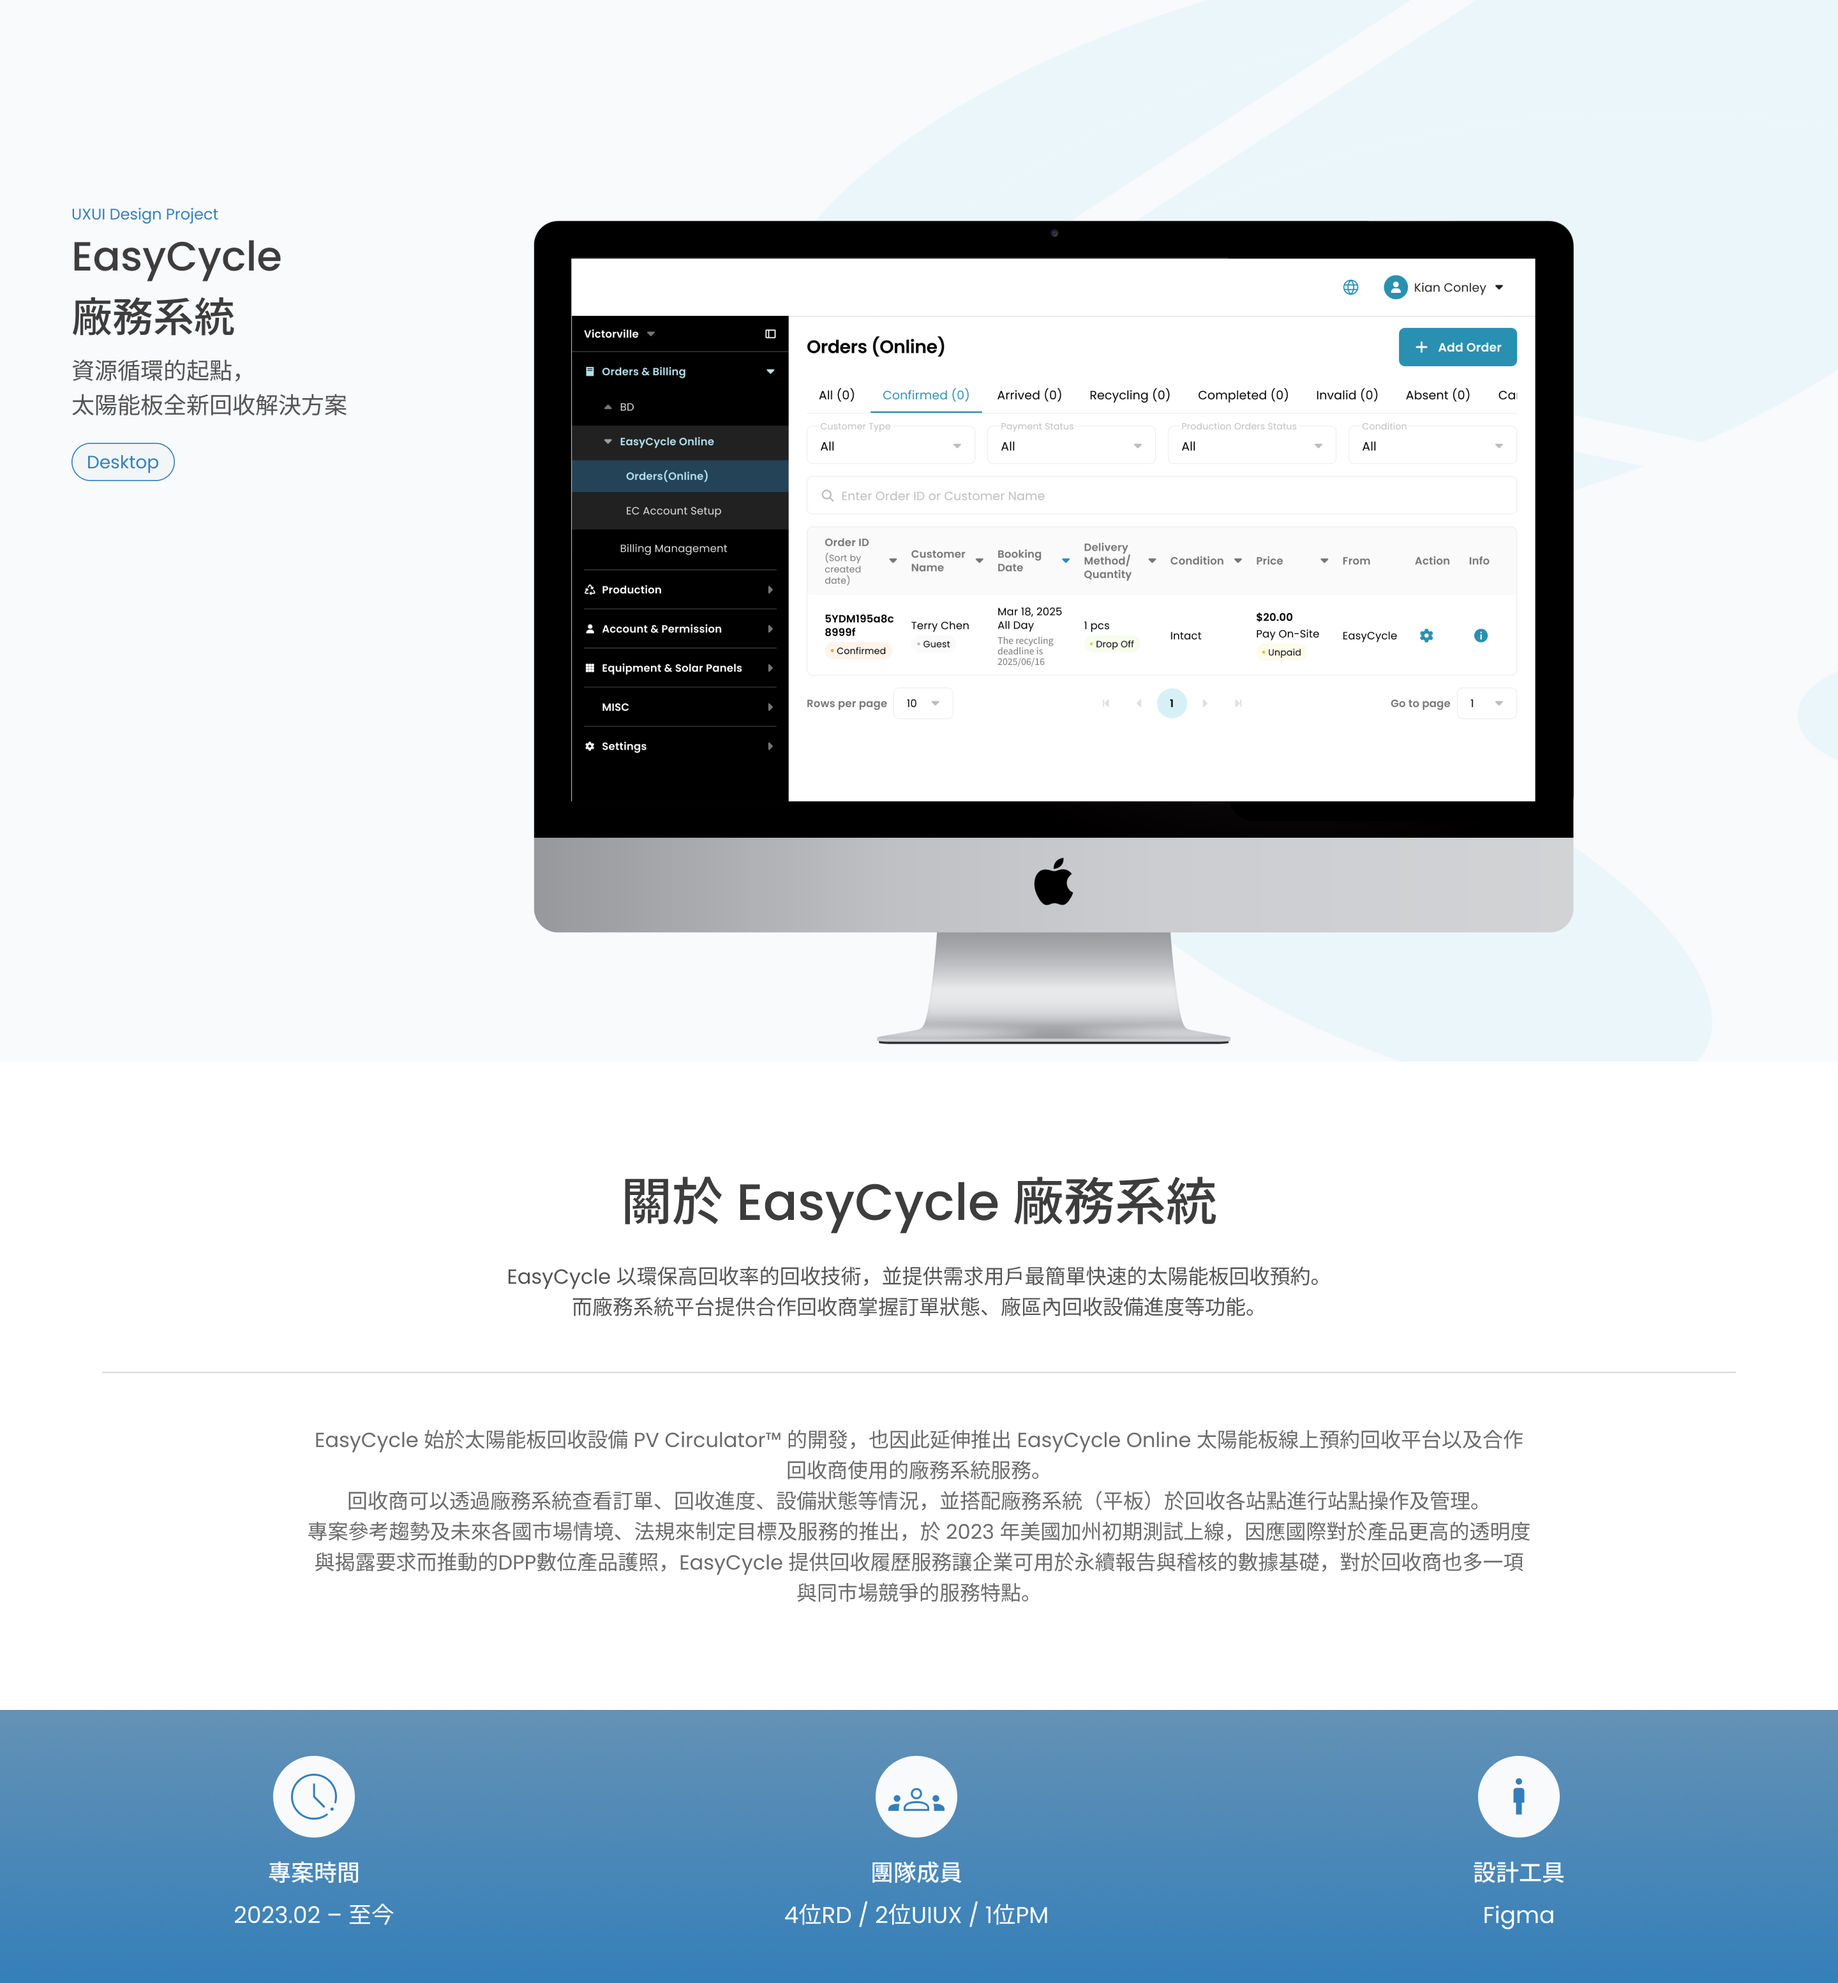
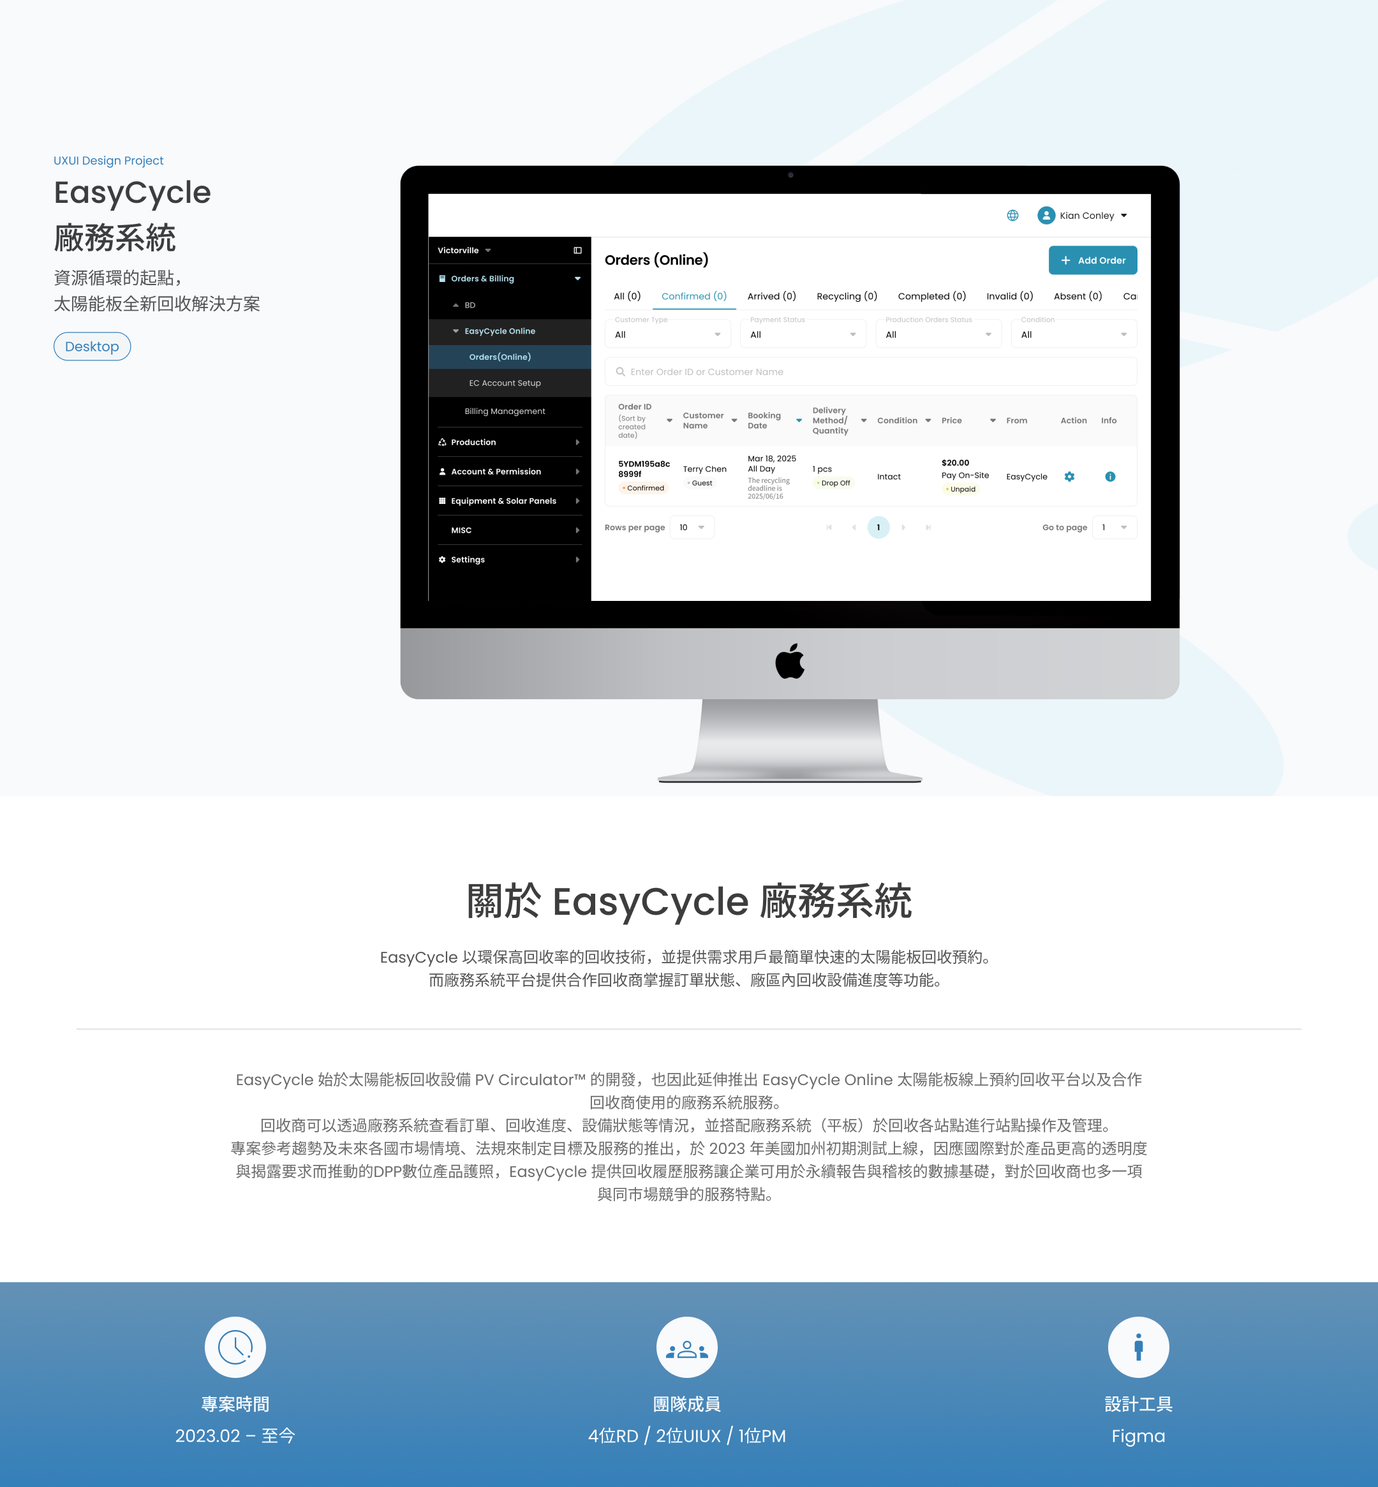
EasyCycle 廠務系統: refresh cover + 4 body images (?v=2)

diff --git a/index.html b/index.html
@@ -10,7 +10,7 @@
 <link rel="preconnect" href="https://fonts.googleapis.com">
 <link rel="preconnect" href="https://fonts.gstatic.com" crossorigin>
 <link href="https://fonts.googleapis.com/css2?family=Poppins:wght@300;400;500;600&family=Noto+Sans+TC:wght@300;400;500;600&display=swap" rel="stylesheet">
-<link rel="stylesheet" href="assets/styles.css?v=70">
+<link rel="stylesheet" href="assets/styles.css?v=71">
 <style id="home-tweak">.hero,.hero-bg,.hero::after{display:none!important}</style>
 </head>
 <body>
@@ -123,7 +123,7 @@
     <div class="worksx-inner">
       <!-- 左：所有卡片疊在一起，hover 分類抽到最前 -->
       <div class="worksx-stage">
-        <figure class="wx-card" data-key="uiux" style="--x:-6%;--y:4%;--r:-6deg;--w:52%;--ar:4/5;--z:3"><img src="./images/easycycle2-cover.jpg" alt="UIUX 設計"></figure>
+        <figure class="wx-card" data-key="uiux" style="--x:-6%;--y:4%;--r:-6deg;--w:52%;--ar:4/5;--z:3"><img src="./images/easycycle2-cover.jpg?v=2" alt="UIUX 設計"></figure>
         <figure class="wx-card" data-key="graphic" style="--x:24%;--y:0%;--r:5deg;--w:48%;--ar:3/4;--z:2"><img src="./images/home-graphic.jpg" alt="平面設計"></figure>
         <figure class="wx-card" data-key="motion" style="--x:8%;--y:34%;--r:-3deg;--w:44%;--ar:4/5;--z:1"><img src="./images/home-motion.jpg?v=2" alt="動態圖像設計"></figure>
       </div>
@@ -151,6 +151,6 @@
 <script src="https://cdn.jsdelivr.net/npm/lenis@1.1.13/dist/lenis.min.js"></script>
 <script src="https://cdnjs.cloudflare.com/ajax/libs/gsap/3.12.5/gsap.min.js"></script>
 <script src="https://cdnjs.cloudflare.com/ajax/libs/gsap/3.12.5/ScrollTrigger.min.js"></script>
-<script src="assets/main.js?v=70"></script>
+<script src="assets/main.js?v=71"></script>
 </body>
 </html>

diff --git a/uiux.html b/uiux.html
@@ -10,7 +10,7 @@
 <link rel="preconnect" href="https://fonts.googleapis.com">
 <link rel="preconnect" href="https://fonts.gstatic.com" crossorigin>
 <link href="https://fonts.googleapis.com/css2?family=Poppins:wght@300;400;500;600&family=Noto+Sans+TC:wght@300;400;500;600&display=swap" rel="stylesheet">
-<link rel="stylesheet" href="assets/styles.css?v=70">
+<link rel="stylesheet" href="assets/styles.css?v=71">
 </head>
 <body class="page-theme">
 
@@ -39,7 +39,7 @@
 <!-- PROJECT GRID -->
 <section class="proj-grid">
   <a class="proj-card" href="project-easycycle2.html" data-hover>
-    <div class="cover"><img src="./images/easycycle2-cover.jpg" alt="EasyCycle 廠務系統"></div>
+    <div class="cover"><img src="./images/easycycle2-cover.jpg?v=2" alt="EasyCycle 廠務系統"></div>
     <div class="body">
       <div class="meta"><span>廠務系統</span></div>
       <h3>EasyCycle 廠務系統</h3>
@@ -122,6 +122,6 @@
 <script src="https://cdn.jsdelivr.net/npm/lenis@1.1.13/dist/lenis.min.js"></script>
 <script src="https://cdnjs.cloudflare.com/ajax/libs/gsap/3.12.5/gsap.min.js"></script>
 <script src="https://cdnjs.cloudflare.com/ajax/libs/gsap/3.12.5/ScrollTrigger.min.js"></script>
-<script src="assets/main.js?v=70"></script>
+<script src="assets/main.js?v=71"></script>
 </body>
 </html>

diff --git a/project.html b/project.html
@@ -10,7 +10,7 @@
 <link rel="preconnect" href="https://fonts.googleapis.com">
 <link rel="preconnect" href="https://fonts.gstatic.com" crossorigin>
 <link href="https://fonts.googleapis.com/css2?family=Poppins:wght@300;400;500;600&family=Noto+Sans+TC:wght@300;400;500;600&display=swap" rel="stylesheet">
-<link rel="stylesheet" href="assets/styles.css?v=70">
+<link rel="stylesheet" href="assets/styles.css?v=71">
 </head>
 <body class="page-theme proj-wide">
 
@@ -126,6 +126,6 @@
 <script src="https://cdn.jsdelivr.net/npm/lenis@1.1.13/dist/lenis.min.js"></script>
 <script src="https://cdnjs.cloudflare.com/ajax/libs/gsap/3.12.5/gsap.min.js"></script>
 <script src="https://cdnjs.cloudflare.com/ajax/libs/gsap/3.12.5/ScrollTrigger.min.js"></script>
-<script src="assets/main.js?v=70"></script>
+<script src="assets/main.js?v=71"></script>
 </body>
 </html>

diff --git a/project-easycycle.html b/project-easycycle.html
@@ -10,7 +10,7 @@
 <link rel="preconnect" href="https://fonts.googleapis.com">
 <link rel="preconnect" href="https://fonts.gstatic.com" crossorigin>
 <link href="https://fonts.googleapis.com/css2?family=Poppins:wght@300;400;500;600&family=Noto+Sans+TC:wght@300;400;500;600&display=swap" rel="stylesheet">
-<link rel="stylesheet" href="assets/styles.css?v=70">
+<link rel="stylesheet" href="assets/styles.css?v=71">
 </head>
 <body class="page-theme proj-wide">
 
@@ -76,6 +76,6 @@
 <script src="https://cdn.jsdelivr.net/npm/lenis@1.1.13/dist/lenis.min.js"></script>
 <script src="https://cdnjs.cloudflare.com/ajax/libs/gsap/3.12.5/gsap.min.js"></script>
 <script src="https://cdnjs.cloudflare.com/ajax/libs/gsap/3.12.5/ScrollTrigger.min.js"></script>
-<script src="assets/main.js?v=70"></script>
+<script src="assets/main.js?v=71"></script>
 </body>
 </html>

diff --git a/project-easycycle2.html b/project-easycycle2.html
@@ -10,7 +10,7 @@
 <link rel="preconnect" href="https://fonts.googleapis.com">
 <link rel="preconnect" href="https://fonts.gstatic.com" crossorigin>
 <link href="https://fonts.googleapis.com/css2?family=Poppins:wght@300;400;500;600&family=Noto+Sans+TC:wght@300;400;500;600&display=swap" rel="stylesheet">
-<link rel="stylesheet" href="assets/styles.css?v=70">
+<link rel="stylesheet" href="assets/styles.css?v=71">
 </head>
 <body class="page-theme proj-wide">
 
@@ -71,6 +71,6 @@
 <script src="https://cdn.jsdelivr.net/npm/lenis@1.1.13/dist/lenis.min.js"></script>
 <script src="https://cdnjs.cloudflare.com/ajax/libs/gsap/3.12.5/gsap.min.js"></script>
 <script src="https://cdnjs.cloudflare.com/ajax/libs/gsap/3.12.5/ScrollTrigger.min.js"></script>
-<script src="assets/main.js?v=70"></script>
+<script src="assets/main.js?v=71"></script>
 </body>
 </html>

diff --git a/project-greenroad.html b/project-greenroad.html
@@ -10,7 +10,7 @@
 <link rel="preconnect" href="https://fonts.googleapis.com">
 <link rel="preconnect" href="https://fonts.gstatic.com" crossorigin>
 <link href="https://fonts.googleapis.com/css2?family=Poppins:wght@300;400;500;600&family=Noto+Sans+TC:wght@300;400;500;600&display=swap" rel="stylesheet">
-<link rel="stylesheet" href="assets/styles.css?v=70">
+<link rel="stylesheet" href="assets/styles.css?v=71">
 </head>
 <body class="page-theme proj-wide">
 
@@ -71,6 +71,6 @@
 <script src="https://cdn.jsdelivr.net/npm/lenis@1.1.13/dist/lenis.min.js"></script>
 <script src="https://cdnjs.cloudflare.com/ajax/libs/gsap/3.12.5/gsap.min.js"></script>
 <script src="https://cdnjs.cloudflare.com/ajax/libs/gsap/3.12.5/ScrollTrigger.min.js"></script>
-<script src="assets/main.js?v=70"></script>
+<script src="assets/main.js?v=71"></script>
 </body>
 </html>

diff --git a/project-nmtl.html b/project-nmtl.html
@@ -10,7 +10,7 @@
 <link rel="preconnect" href="https://fonts.googleapis.com">
 <link rel="preconnect" href="https://fonts.gstatic.com" crossorigin>
 <link href="https://fonts.googleapis.com/css2?family=Poppins:wght@300;400;500;600&family=Noto+Sans+TC:wght@300;400;500;600&display=swap" rel="stylesheet">
-<link rel="stylesheet" href="assets/styles.css?v=70">
+<link rel="stylesheet" href="assets/styles.css?v=71">
 </head>
 <body class="page-theme proj-wide">
 
@@ -69,6 +69,6 @@
 <script src="https://cdn.jsdelivr.net/npm/lenis@1.1.13/dist/lenis.min.js"></script>
 <script src="https://cdnjs.cloudflare.com/ajax/libs/gsap/3.12.5/gsap.min.js"></script>
 <script src="https://cdnjs.cloudflare.com/ajax/libs/gsap/3.12.5/ScrollTrigger.min.js"></script>
-<script src="assets/main.js?v=70"></script>
+<script src="assets/main.js?v=71"></script>
 </body>
 </html>

diff --git a/motion.html b/motion.html
@@ -10,7 +10,7 @@
 <link rel="preconnect" href="https://fonts.googleapis.com">
 <link rel="preconnect" href="https://fonts.gstatic.com" crossorigin>
 <link href="https://fonts.googleapis.com/css2?family=Poppins:wght@300;400;500;600&family=Noto+Sans+TC:wght@300;400;500;600&display=swap" rel="stylesheet">
-<link rel="stylesheet" href="assets/styles.css?v=70">
+<link rel="stylesheet" href="assets/styles.css?v=71">
 </head>
 <body class="page-theme">
 
@@ -105,6 +105,6 @@
 <script src="https://cdn.jsdelivr.net/npm/lenis@1.1.13/dist/lenis.min.js"></script>
 <script src="https://cdnjs.cloudflare.com/ajax/libs/gsap/3.12.5/gsap.min.js"></script>
 <script src="https://cdnjs.cloudflare.com/ajax/libs/gsap/3.12.5/ScrollTrigger.min.js"></script>
-<script src="assets/main.js?v=70"></script>
+<script src="assets/main.js?v=71"></script>
 </body>
 </html>
